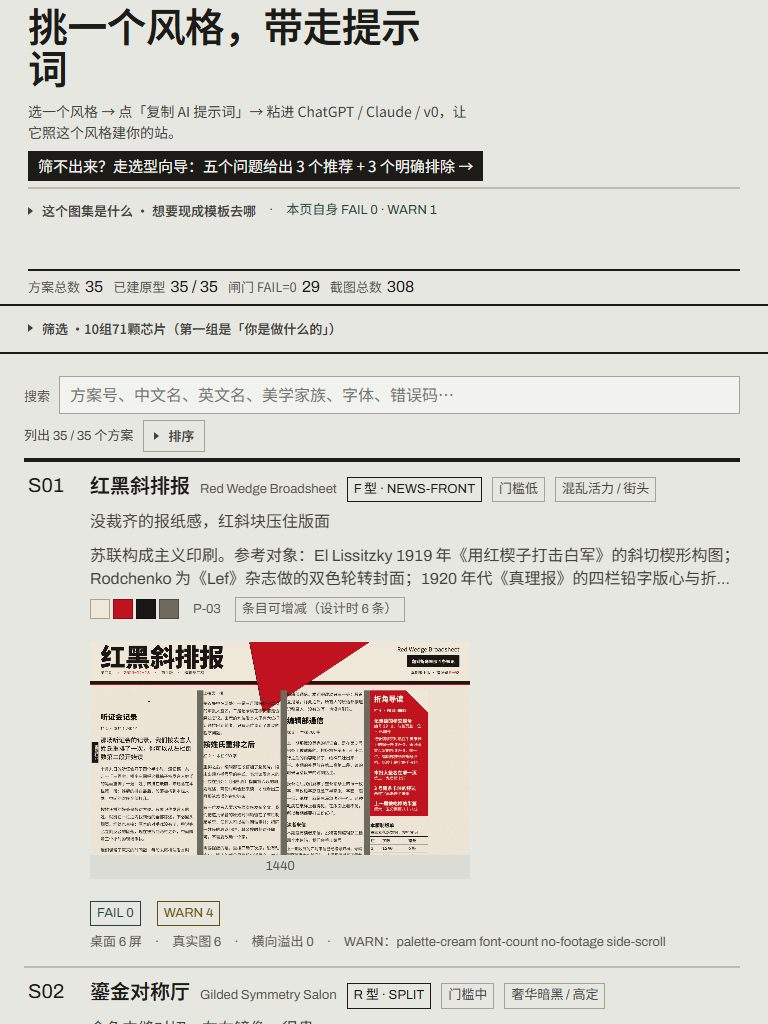
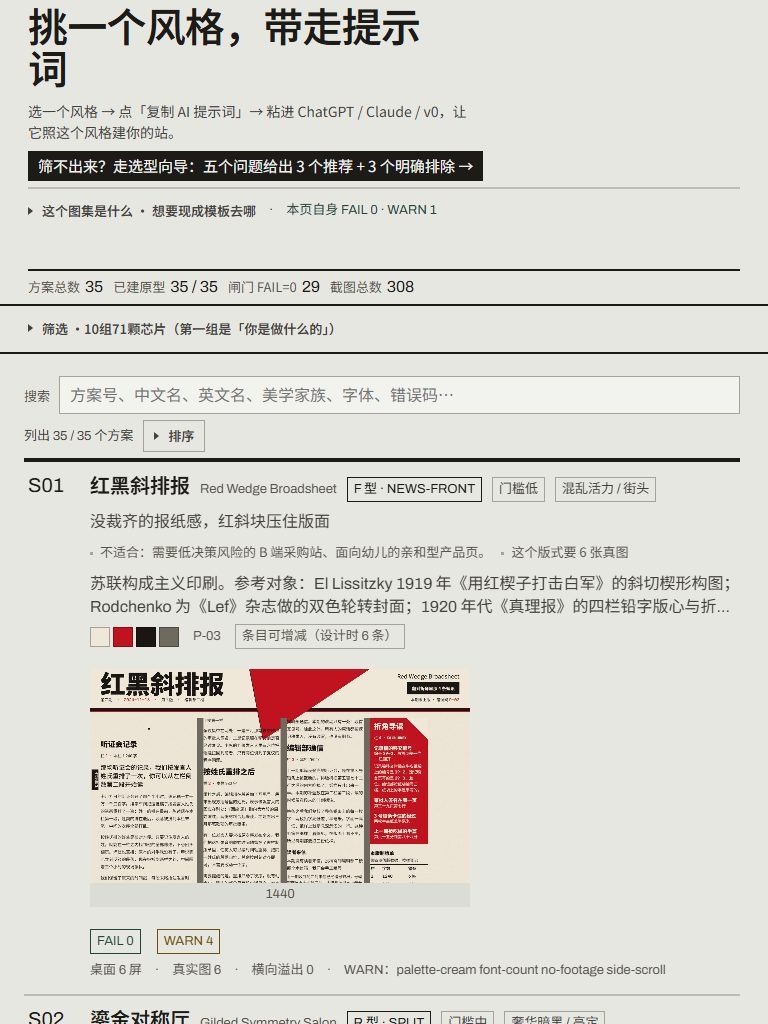
卡片补上"适不适合我"三行：不适合什么行业、要几张图、机制依赖 JS
三个 35/35 都有值的字段，卡片上原来一个字都没有：

- scenesNo —— 作者自己在详情面板的注释里已认定「负向信息对『这案能不能
  用在我这行』的判断比正向描述更硬 —— 用户常常先排除、再挑选」，
  却没让它在卡上出现。审计把它列为最大单点缺口。
- minPics —— 卡上印的"真实图 N"是另一个东西（那案子实际放了几张），
  两者 15/35 不相等。店主手上 3 张产品照时，卡片给他的唯一数字
  回答的不是他的问题。
- hard（4 案：S15 S18 S21 S29）—— 唯一一个"选了会坏、而且看不出来"
  的字段。prompt-copy 的文案说「v0 会把 script 剥掉或改写，机制会消失，
  而且看起来不容易发现哪里坏了」，这段话只存在于生成的提示词里。

app.js
- 新增 rowFitHTML(r)，输出三行。
  · scenesNo 去掉原文可能已有的"不适合："前缀，统一由我们加，避免
    「不适合：不适合…」重复。
  · minPics 只报"这个版式要 N 张图"，不吓唬人 —— 它不是"至少需要几张"：
    S07 的 minPics=7 但它是自动流，删到 3 条只是变短。真正会留洞的是
    degrades=yes，capacityHTML 已经在说。只有 have < need 时才补一句
    「这个案自己只放了 N 张」（S03：要 8 张、自己 4 张）。
  · hard 只在 true 时出现，用与 .cap-warn 同族的赭色 —— 全站唯一一个
    这种性质的字段，值得在扫视时跳出来。

style.css
- .row-fit 三行：无边框浅字（与 .tag 的边框短词区分开，这是句子不是标签）。
- .fit-no 限两行（原料最长 87 字，S31/S22/S13）。用 CSS clamp 不截字：
  截字会切到句子中间，本仓库在这种修法上出过事。想看全文点详情。

probe-ui.mjs（新增第 15b 条断言）
- row-card-fit-lines：每张卡都要有 .fit-no 与 .fit-pics；hard 为真的案
  必须有 .fit-hard，其余案不许有。
- hard 那条双向验：只验"该有的有"会放过"所有卡都有"，而那是把警示色
  变成装饰（本仓库的老病：35 张卡都印 no-footage）。
- 变异验证：移除 rowFitHTML 后断言报「scenesNo 35/35 有值，卡上却缺」。

验证
- 真机四案：S01「不适合：需要低决策风险… ／ 要 6 张真图」；
  S15 多一行「机制依赖 JS」；S34「不放图也成立」；
  S03「要 8 张真图（这个案自己只放了 4 张）」。
- 行高三档零变化（1440 恒 277，由截图列撑起）；390 档 S31 541→502。
- probe-ui 21 PASS / 0 FAIL；quarter 17 步全过；
  render-scheme FAIL=0 WARN=1（与基线一致，赭色未触发 palette 规则）。

Changed region(s): [[0.0312, 0.5312, 0.9375, 1.0]]

diff --git a/prototypes/_selection/app.js b/prototypes/_selection/app.js
@@ -760,6 +760,53 @@
       '条目可增减（设计时 ' + cap.minItems + ' 条）</span>';
   }
 
+  /* 卡片上的「适不适合我」三行（2026-11-05）。
+     见调用处的长注释：scenesNo / minPics / hard 三个字段 35/35 有值，
+     而卡片上原来一个字都没有。
+     实现要点：
+     · scenesNo 原文常常是「需要低决策风险的 B 端采购站、面向幼儿的亲和型产品页。」
+       开头就是"需要…"的否定式，直接拼「不适合：不适合…」会重复。
+       去掉开头的"不适合："前缀（有的案有、有的没有），统一由我们加。
+     · minPics 与"真实图"的关系要说清：不是"至少 N 张"，而是"这个版式有 N 个
+       放真图的位置"。区别在哪：S07 的 minPics=7 但它是 column-count 自动流，
+       删到 3 条只是变短；真正会留洞的是 degrades==="yes"（capacityHTML 已经在说）。
+       所以这一行只报"版式要 N 张图"，不吓唬人。
+     · hard 只在 true 时出现，且必须说清"会坏在哪、为什么看不出来" ——
+       这是全站唯一一个这个性质的字段，值得占一行。 */
+  function rowFitHTML(r) {
+    var out = [];
+    var no = String(r.scenesNo || '').trim().replace(/^(不适合|不适用于)[：:]\s*/, '');
+    if (no) {
+      out.push('<span class="fit-no" title="这个风格不适合用在哪些场合（来自规格字段 10 的原文）">不适合：' + esc(no) + '</span>');
+    }
+    var P = window.STYLE_PROMPTS;
+    if (P && P.schemes) {
+      for (var i = 0; i < P.schemes.length; i++) {
+        var s = P.schemes[i];
+        if (s.id !== r.id) continue;
+        if (s.capacity && typeof s.capacity.minPics === 'number') {
+          var need = s.capacity.minPics;
+          var have = (r.gate && typeof r.gate.realPictures === 'number') ? r.gate.realPictures : null;
+          var txt = need === 0
+            ? '这个版式不放图也成立'
+            : '这个版式要 ' + need + ' 张真图';
+          /* 只有"你手上的图可能不够"这一件事需要提醒。have 是本案实际放了几张，
+             它 ≥ need 说明这个案证明了自己能做到；< need 才是真落差。 */
+          if (have !== null && have < need) {
+            txt += '（这个案自己只放了 ' + have + ' 张）';
+          }
+          out.push('<span class="fit-pics" title="版式里放真图的位置数，不是「至少需要几张」">' + esc(txt) + '</span>');
+        }
+        if (s.hard) {
+          out.push('<span class="fit-hard" title="这个案的核心机制靠 JavaScript 跑。v0 一类工具会把 script 剥掉或改写，机制会消失，而且不易察觉">机制依赖 JS：换个工具可能悄悄失效</span>');
+        }
+        break;
+      }
+    }
+    if (!out.length) return '';
+    return '<p class="row-fit">' + out.join('') + '</p>';
+  }
+
   function rowHTML(r) {
     var sw = (r.palette || []).slice(0, 4).map(function (h) {
       return '<i style="background:' + esc(h) + '" title="' + esc(h) + '"></i>';
@@ -814,6 +861,26 @@
             (r.tone ? '<span class="tag">' + esc(r.tone) + '</span>' : '') +
           '</div>' +
           '<p class="row-def">' + esc(plainOf(r)) + '</p>' +
+          /* 三件店主真正需要、原来卡上零字的东西（2026-11-05）：
+           *
+           * ① 不适合什么行业（scenesNo）—— 35/35 有值，卡上原来 0 字。
+           *    作者自己在详情面板的注释里已经认定「负向信息对『这案能不能用在我这行』
+           *    的判断比正向描述更硬 —— 用户常常先排除、再挑选」，却没让它在卡上出现一个字。
+           *    这是审计列出的"最大单点缺口"。
+           * ② 这个版式需要几张图（minPics）—— 35/35 有值，卡上原来 0 字。
+           *    卡上印的"真实图 N"是**另一个东西**（那案子实际放了几张），
+           *    两者 15/35 不相等，2 张卡上"真实图"少于版式实际需要。
+           *    店主手上 3 张产品照时，卡片给他的唯一数字回答的不是他的问题。
+           * ③ 机制依赖 JS（hard，4 案）—— 唯一一个"选了会坏、而且看不出来"的字段。
+           *    prompt-copy.js 的文案说「v0 会把 <script> 剥掉或改写，所以你在 v0 里
+           *    拿到的版本机制会消失，而且看起来不容易发现哪里坏了」。
+           *    这段话只存在于生成的提示词里，选型那一刻不可见。
+           *
+           * 为什么放在 row-def 下面而不是页脚：页脚是质检区（308 个信息单元里
+           * 238 个是质检项），这三件是决策信息，混进页脚等于被噪声埋掉。
+           * 为什么用 .row-fit 而不是再加一个 tag：tag 是"分类标签"（F型/门槛/调性），
+           * 这三件是**句子**，视觉上要能和标签区分开。 */
+          rowFitHTML(r) +
           '<div class="row-meta">' + meta.join('') + '</div>' +
         '</div>' +
         /* 只生成桌面一张（2026-11-04）。原来这里是三张，而 style.css 把第 2、3 张

diff --git a/prototypes/_selection/style.css b/prototypes/_selection/style.css
@@ -532,6 +532,36 @@ code { font-family: var(--code); font-size: 0.94em; }
   margin-top: 6px; font-size: var(--s-16); color: var(--ink-2); max-width: 46ch;
   display: -webkit-box; -webkit-line-clamp: 3; -webkit-box-orient: vertical; overflow: hidden;
 }
+/* 「适不适合我」三行（2026-11-05）。
+   它们回答的是店主最先问的问题，所以紧跟在 row-def 之后、排在质检页脚之前。
+   视觉上要与 .tag（分类标签）区分开：tag 是短词 + 边框，这里是句子，
+   所以用无边框、浅底、小字号，读起来像正文的补充而不是又一层标签。
+   三行各有自己的色：
+     · 不适合 —— 中性灰（排除信息，不吓人，但要说清）
+     · 需要 N 张图 —— 中性灰
+     · 机制依赖 JS —— 唯一的警示色。它是全站唯一"选了会坏且看不出来"的字段，
+       用与 .cap-warn 同一族的赭色，让"这需要你注意"这件事在扫视时能跳出来。 */
+.row-fit {
+  margin-top: 8px; display: flex; flex-wrap: wrap; gap: 4px 10px;
+  font-size: var(--s-13); line-height: 1.5; color: var(--ink-3);
+}
+.row-fit > span { max-width: 100%; }
+/* .fit-no 是唯一可能很长的（原料最长 87 字，S31/S22/S13）。限两行：
+   它在页脚之前、又是决策信息，不能无限长；两行足够说清"不适合什么"，
+   想看全文可以点开详情（详情里 scenesNo 是完整原文）。
+   为什么不用 JS 截字：截字会切到句子中间（本仓库在这种修法上出过事，
+   见 row-def 那段注释），CSS clamp 至少能让它停在一个完整的视觉行上。 */
+.row-fit .fit-no {
+  display: -webkit-box; -webkit-line-clamp: 2; -webkit-box-orient: vertical;
+  overflow: hidden;
+}
+.row-fit .fit-no::before,
+.row-fit .fit-pics::before { content: ""; display: inline-block; width: 3px; height: 3px; background: currentColor; margin-right: 7px; vertical-align: middle; opacity: .45; }
+.row-fit .fit-hard {
+  color: #7a5a00; background: #fdf6e3; border: 1px solid #b8860b;
+  padding: 0 6px; cursor: help;
+}
+
 .row-meta {
   margin-top: 10px; display: flex; flex-wrap: wrap; gap: 6px 14px; align-items: center;
   font-family: var(--num); font-variant-numeric: tabular-nums; font-size: var(--s-13); color: var(--ink-3);

diff --git a/prototypes/_selection/self-gate.js b/prototypes/_selection/self-gate.js
@@ -1,7 +1,7 @@
 // 由 render-scheme.mjs 生成，勿手改。选型台自身的闸门结果。
 // 生成时机：node prototypes/_build/render-scheme.mjs _selection
 window.SELECTION_REPORT = {
- "at": "2026-11-19T13:17:30.064Z",
+ "at": "2026-11-19T13:55:21.947Z",
  "findings": [
   {
    "level": "WARN",
